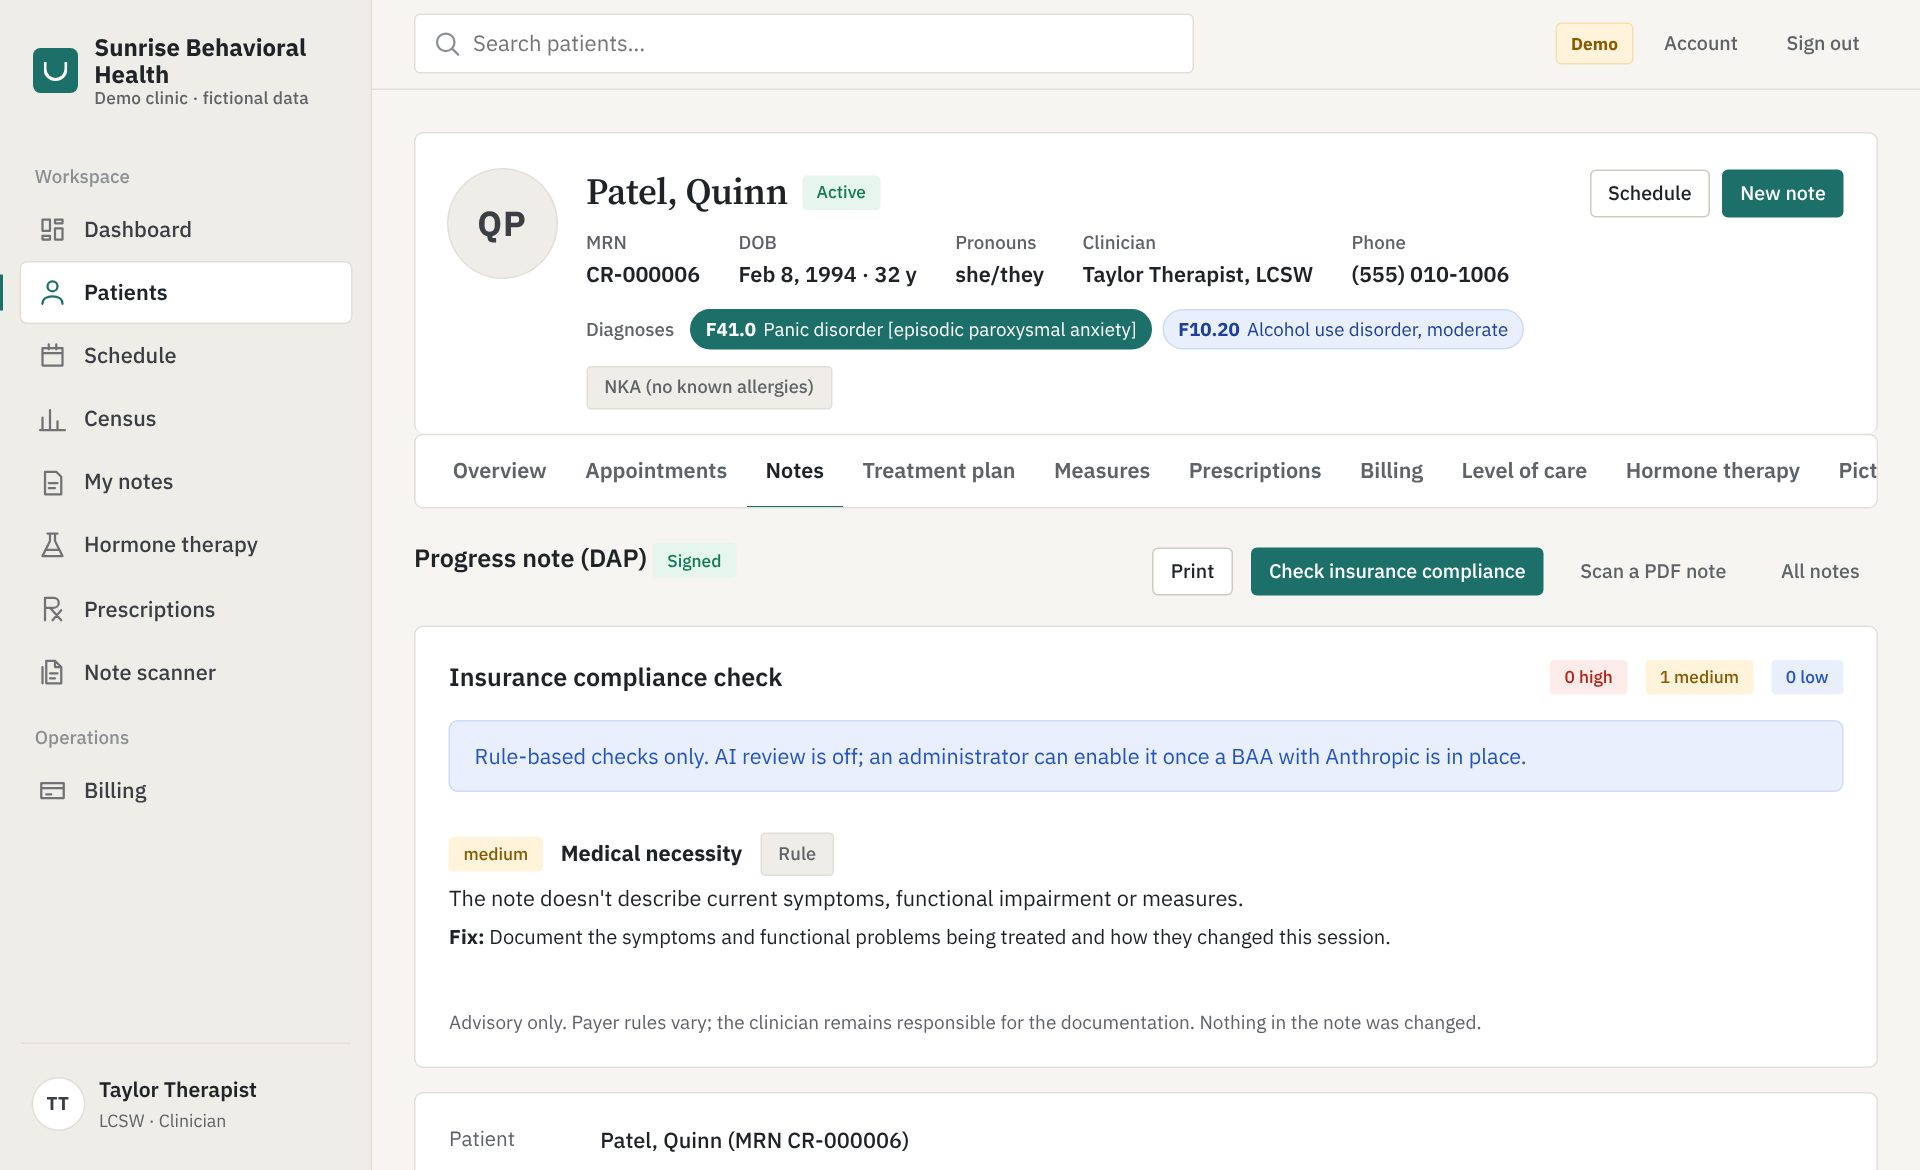
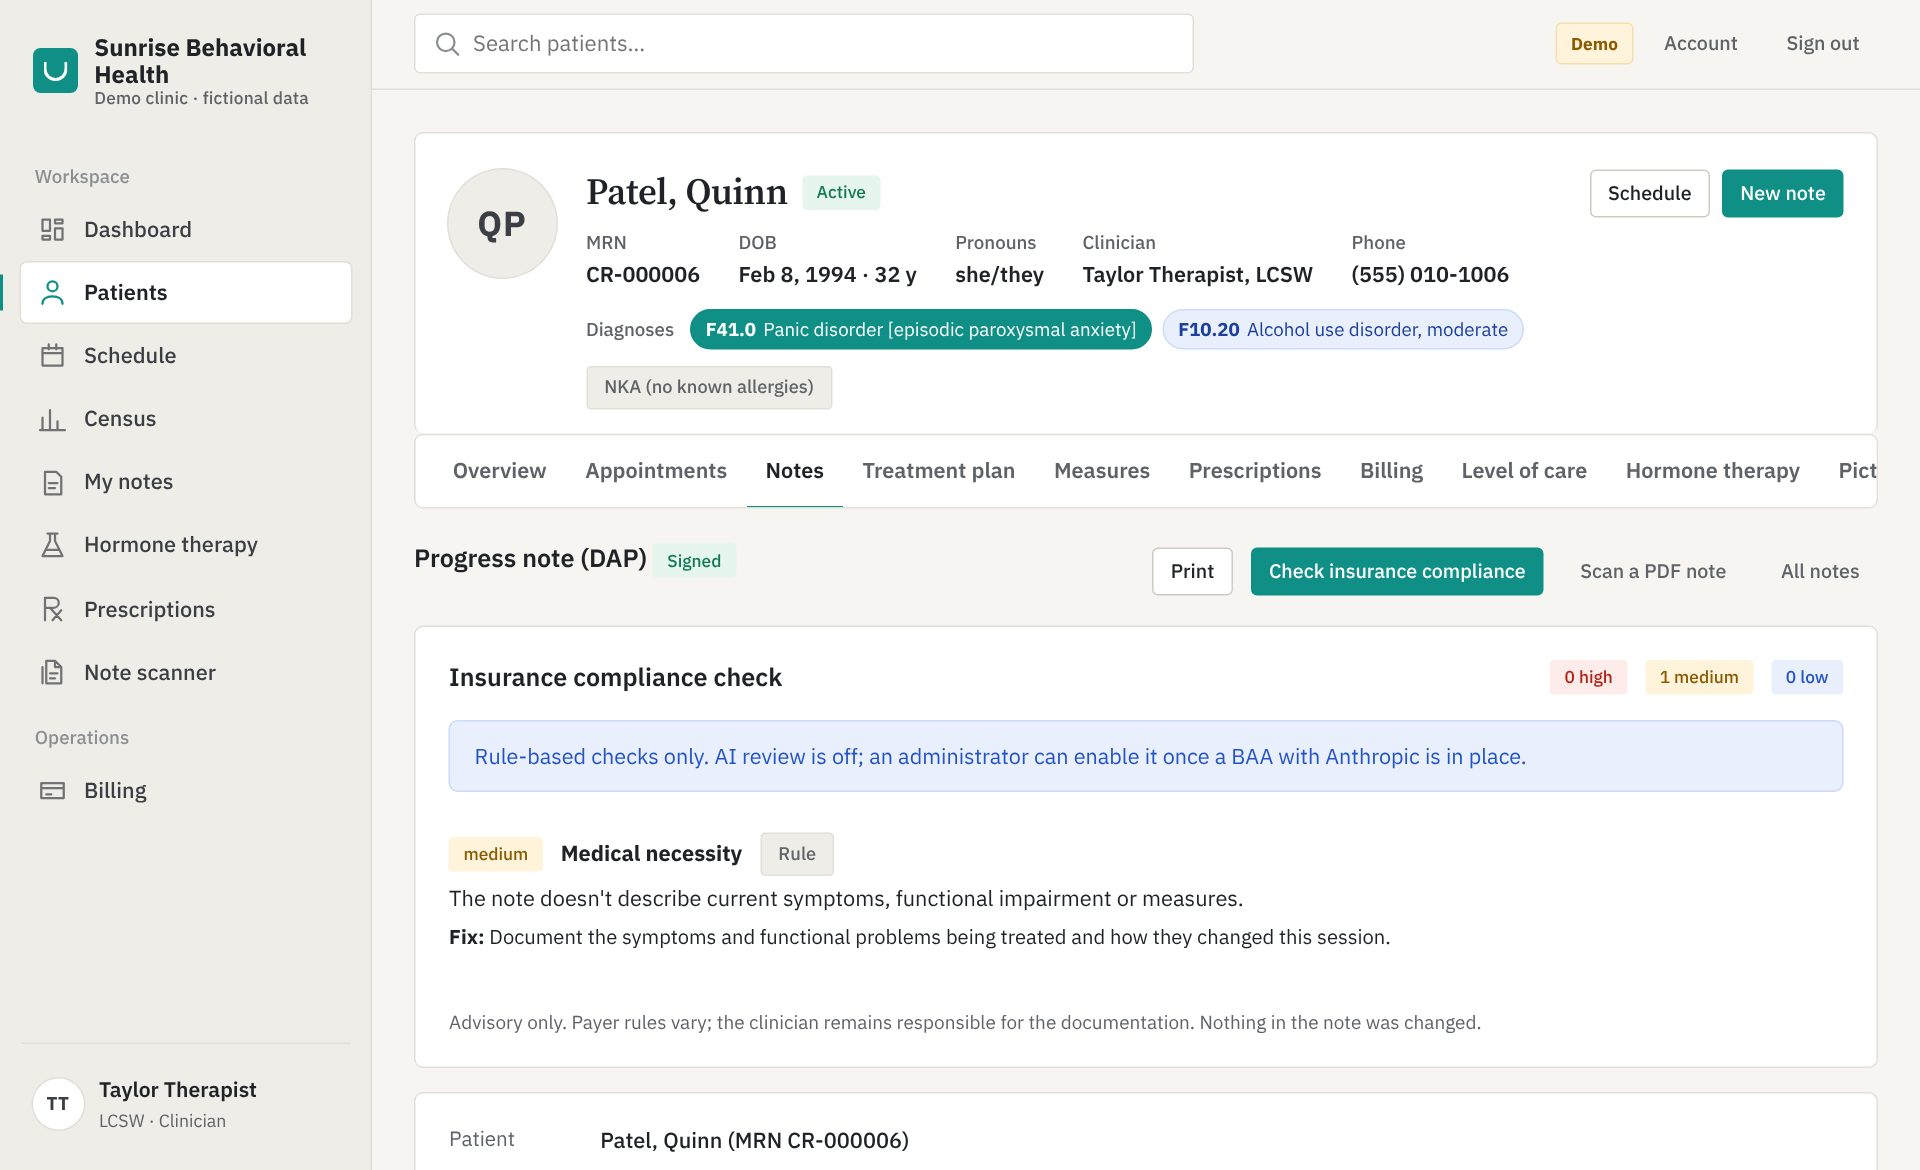
Bring back the original brighter brand colours (keep the quieter layout)
Claude-Session: https://claude.ai/code/session_01MtJB2rx3w4RwSB11WKgG2F

diff --git a/ehr/public/product.css b/ehr/public/product.css
@@ -1,5 +1,5 @@
 /* ChartReady sales site. Editorial and plain: paper, ink, one accent, hairline rules, a serif for headings. */
-:root { --ink: #1f2328; --text: #2b2f34; --muted: #61666c; --line: #e2dfd8; --paper: #f6f5f1; --tint: #efede7; --accent: #2b5c8f; --accent-dark: #1f4670;
+:root { --ink: #1f2328; --text: #2b2f34; --muted: #61666c; --line: #e2dfd8; --paper: #f6f5f1; --tint: #efede7; --accent: #315de7; --accent-dark: #2448c2;
   --good: #2f6b45; --good-bg: #e8f1eb; --bad: #9b2c22; --bad-bg: #f8e9e6;
   --serif: "Source Serif 4", Georgia, "Times New Roman", serif; --sans: "IBM Plex Sans", system-ui, -apple-system, "Segoe UI", sans-serif; }
 * { box-sizing: border-box; }
@@ -18,8 +18,8 @@ code { font-size: .85em; background: var(--tint); padding: .05rem .3rem; border-
 .skip { position: absolute; left: -999px; } .skip:focus { left: 1rem; top: 1rem; background: #fff; padding: .5rem 1rem; z-index: 99; }
 .muted { color: var(--muted); } .small { font-size: .88rem; }
 
-.btn { display: inline-block; padding: .6rem 1.1rem; border-radius: 4px; background: var(--ink); color: #fff; font: 500 .95rem/1.3 var(--sans); text-decoration: none; border: 1px solid var(--ink); cursor: pointer; }
-.btn:hover { background: #000; color: #fff; }
+.btn { display: inline-block; padding: .6rem 1.1rem; border-radius: 4px; background: var(--accent); color: #fff; font: 500 .95rem/1.3 var(--sans); text-decoration: none; border: 1px solid var(--accent); cursor: pointer; }
+.btn:hover { background: var(--accent-dark); border-color: var(--accent-dark); color: #fff; }
 .btn--lg { padding: .8rem 1.35rem; font-size: 1rem; }
 .link-arrow { margin-left: .75rem; color: var(--ink); }
 .link-arrow::after { content: " →"; }

diff --git a/ehr/src/clinic.js b/ehr/src/clinic.js
@@ -5,12 +5,12 @@
  * home-screen app name. Defaults come from EHR_CLINIC_NAME, then the product name (ChartReady).
  */
 const COLORS = {
-  blue: { label: "Blue", primary: "#2b5c8f", dark: "#1f4670", light: "#eaf0f6", ring: "rgba(43,92,143,.22)" },
-  teal: { label: "Teal", primary: "#1d7069", dark: "#155650", light: "#e6f1ef", ring: "rgba(29,112,105,.22)" },
-  purple: { label: "Purple", primary: "#5a4a96", dark: "#463978", light: "#eeebf5", ring: "rgba(90,74,150,.22)" },
-  green: { label: "Green", primary: "#2f6b45", dark: "#245336", light: "#e8f1eb", ring: "rgba(47,107,69,.22)" },
-  rose: { label: "Rose", primary: "#9c3d5a", dark: "#7c2f47", light: "#f5e9ed", ring: "rgba(156,61,90,.22)" },
-  slate: { label: "Slate", primary: "#3f5677", dark: "#2f425d", light: "#e9eef5", ring: "rgba(63,86,119,.22)" },
+  blue: { label: "Blue", primary: "#315de7", dark: "#2448c2", light: "#eaf0fe", ring: "rgba(49,93,231,.18)" },
+  teal: { label: "Teal", primary: "#0f8f86", dark: "#0b6f68", light: "#e3f5f3", ring: "rgba(15,143,134,.2)" },
+  purple: { label: "Purple", primary: "#6d4ae0", dark: "#5534c2", light: "#efeafd", ring: "rgba(109,74,224,.18)" },
+  green: { label: "Green", primary: "#1f8a4c", dark: "#176b3a", light: "#e6f5ec", ring: "rgba(31,138,76,.2)" },
+  rose: { label: "Rose", primary: "#d1406b", dark: "#ab2f55", light: "#fdebf0", ring: "rgba(209,64,107,.18)" },
+  slate: { label: "Slate", primary: "#3f5677", dark: "#2f425d", light: "#e9eef5", ring: "rgba(63,86,119,.2)" },
 };
 const FIELDS = ["name", "tagline", "address1", "address2", "city", "state", "zip", "phone", "fax", "email", "website", "npi", "tax_id", "taxonomy", "color"];
 

diff --git a/ehr/src/views.js b/ehr/src/views.js
@@ -237,7 +237,7 @@ function page(req, { title, active = "", body, bare = false }) {
   <link rel="preconnect" href="https://fonts.googleapis.com">
   <link rel="preconnect" href="https://fonts.gstatic.com" crossorigin>
   <link href="https://fonts.googleapis.com/css2?family=IBM+Plex+Sans:wght@400;500;600;700&family=Source+Serif+4:opsz,wght@8..60,600&display=swap" rel="stylesheet">
-  <link rel="stylesheet" href="/ehr/static/ehr.css?v=24">${brandCss(clinic) ? raw(`<style>${brandCss(clinic)}</style>`) : ""}
+  <link rel="stylesheet" href="/ehr/static/ehr.css?v=25">${brandCss(clinic) ? raw(`<style>${brandCss(clinic)}</style>`) : ""}
 </head>
 <body>
   <a class="skip-link" href="#main">Skip to content</a>

diff --git a/ehr/src/routes/product.js b/ehr/src/routes/product.js
@@ -182,7 +182,7 @@ function productPage(req, res, { sent = false, error = null, values = {} } = {},
 <link rel="icon" href="/ehr/static/icons/icon-32.png" type="image/png">
 <link rel="preconnect" href="https://fonts.googleapis.com"><link rel="preconnect" href="https://fonts.gstatic.com" crossorigin>
 <link href="https://fonts.googleapis.com/css2?family=IBM+Plex+Sans:wght@400;500;600&family=Source+Serif+4:ital,opsz,wght@0,8..60,400;0,8..60,600;1,8..60,400&display=swap" rel="stylesheet">
-<link rel="stylesheet" href="/ehr/static/product.css?v=2">
+<link rel="stylesheet" href="/ehr/static/product.css?v=3">
 </head><body>${body}</body></html>`);
 }
 

diff --git a/ehr/public/ehr.css b/ehr/public/ehr.css
@@ -763,7 +763,7 @@ tr.is-voided td:last-child { text-decoration: none; }
 :root {
   --bg: #f6f5f1; --surface: #fff; --surface-2: #faf9f6; --surface-3: #efede8;
   --text: #1f2328; --muted: #5f6368; --faint: #8b8f94; --border: #e2dfd8; --border-strong: #cfcbc2;
-  --primary: #2b5c8f; --primary-dark: #1f4670; --primary-light: #eaf0f6; --primary-ring: rgba(43, 92, 143, .22);
+  --primary: #315de7; --primary-dark: #2448c2; --primary-light: #eaf0fe; --primary-ring: rgba(49, 93, 231, .18);
   --side: #efede7; --side-text: #3b3f45;
   --radius: 6px; --radius-sm: 4px;
   --shadow: none; --shadow-lg: 0 8px 24px rgba(31, 35, 40, .08);

diff --git a/ehr/test/clinic.test.js b/ehr/test/clinic.test.js
@@ -26,7 +26,7 @@ test("clinic settings: validated, saved, and shown across the app", async () => 
   const dash = await admin.get("/ehr");
   assert.match(dash.text, /Sunrise Counseling/);
   assert.match(dash.text, /<title>[^<]*Sunrise Counseling<\/title>/);
-  assert.match(dash.text, /--primary:#1d7069/);
+  assert.match(dash.text, /--primary:#0f8f86/);
   const login = await t.client().get("/ehr/login");
   assert.match(login.text, /Sunrise Counseling/);
   const man = JSON.parse((await t.client().get("/ehr/manifest.webmanifest")).text);
